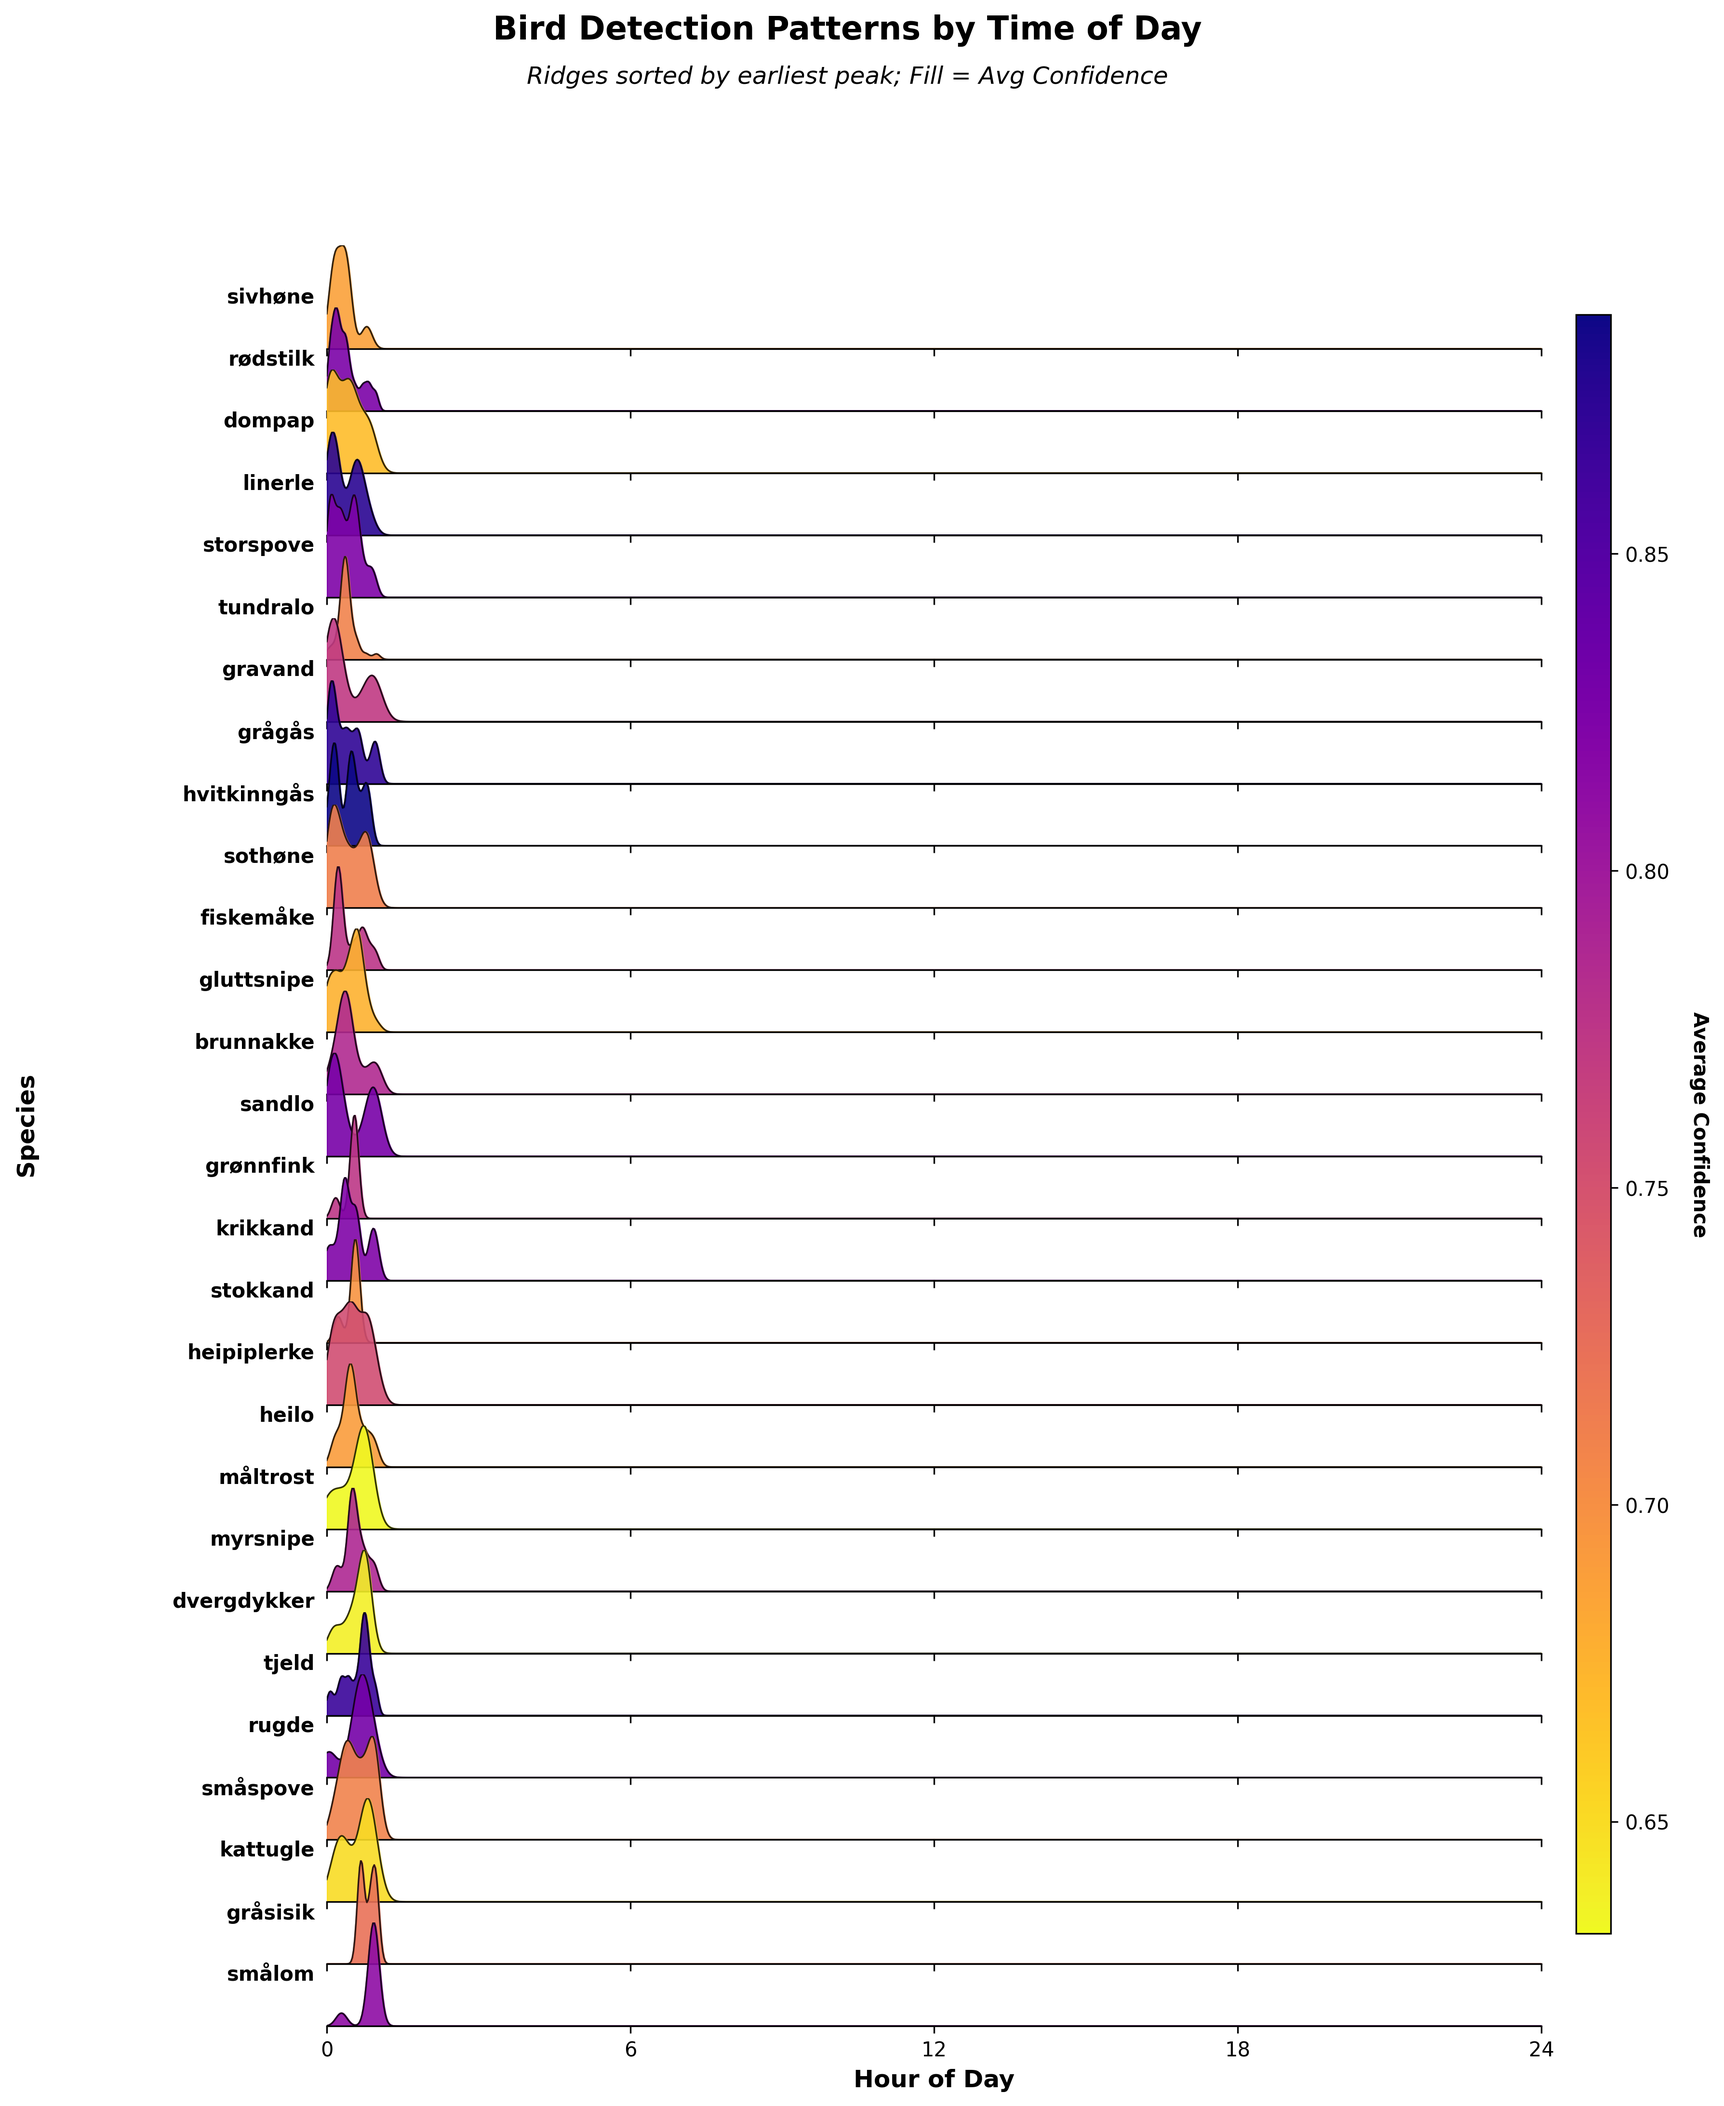
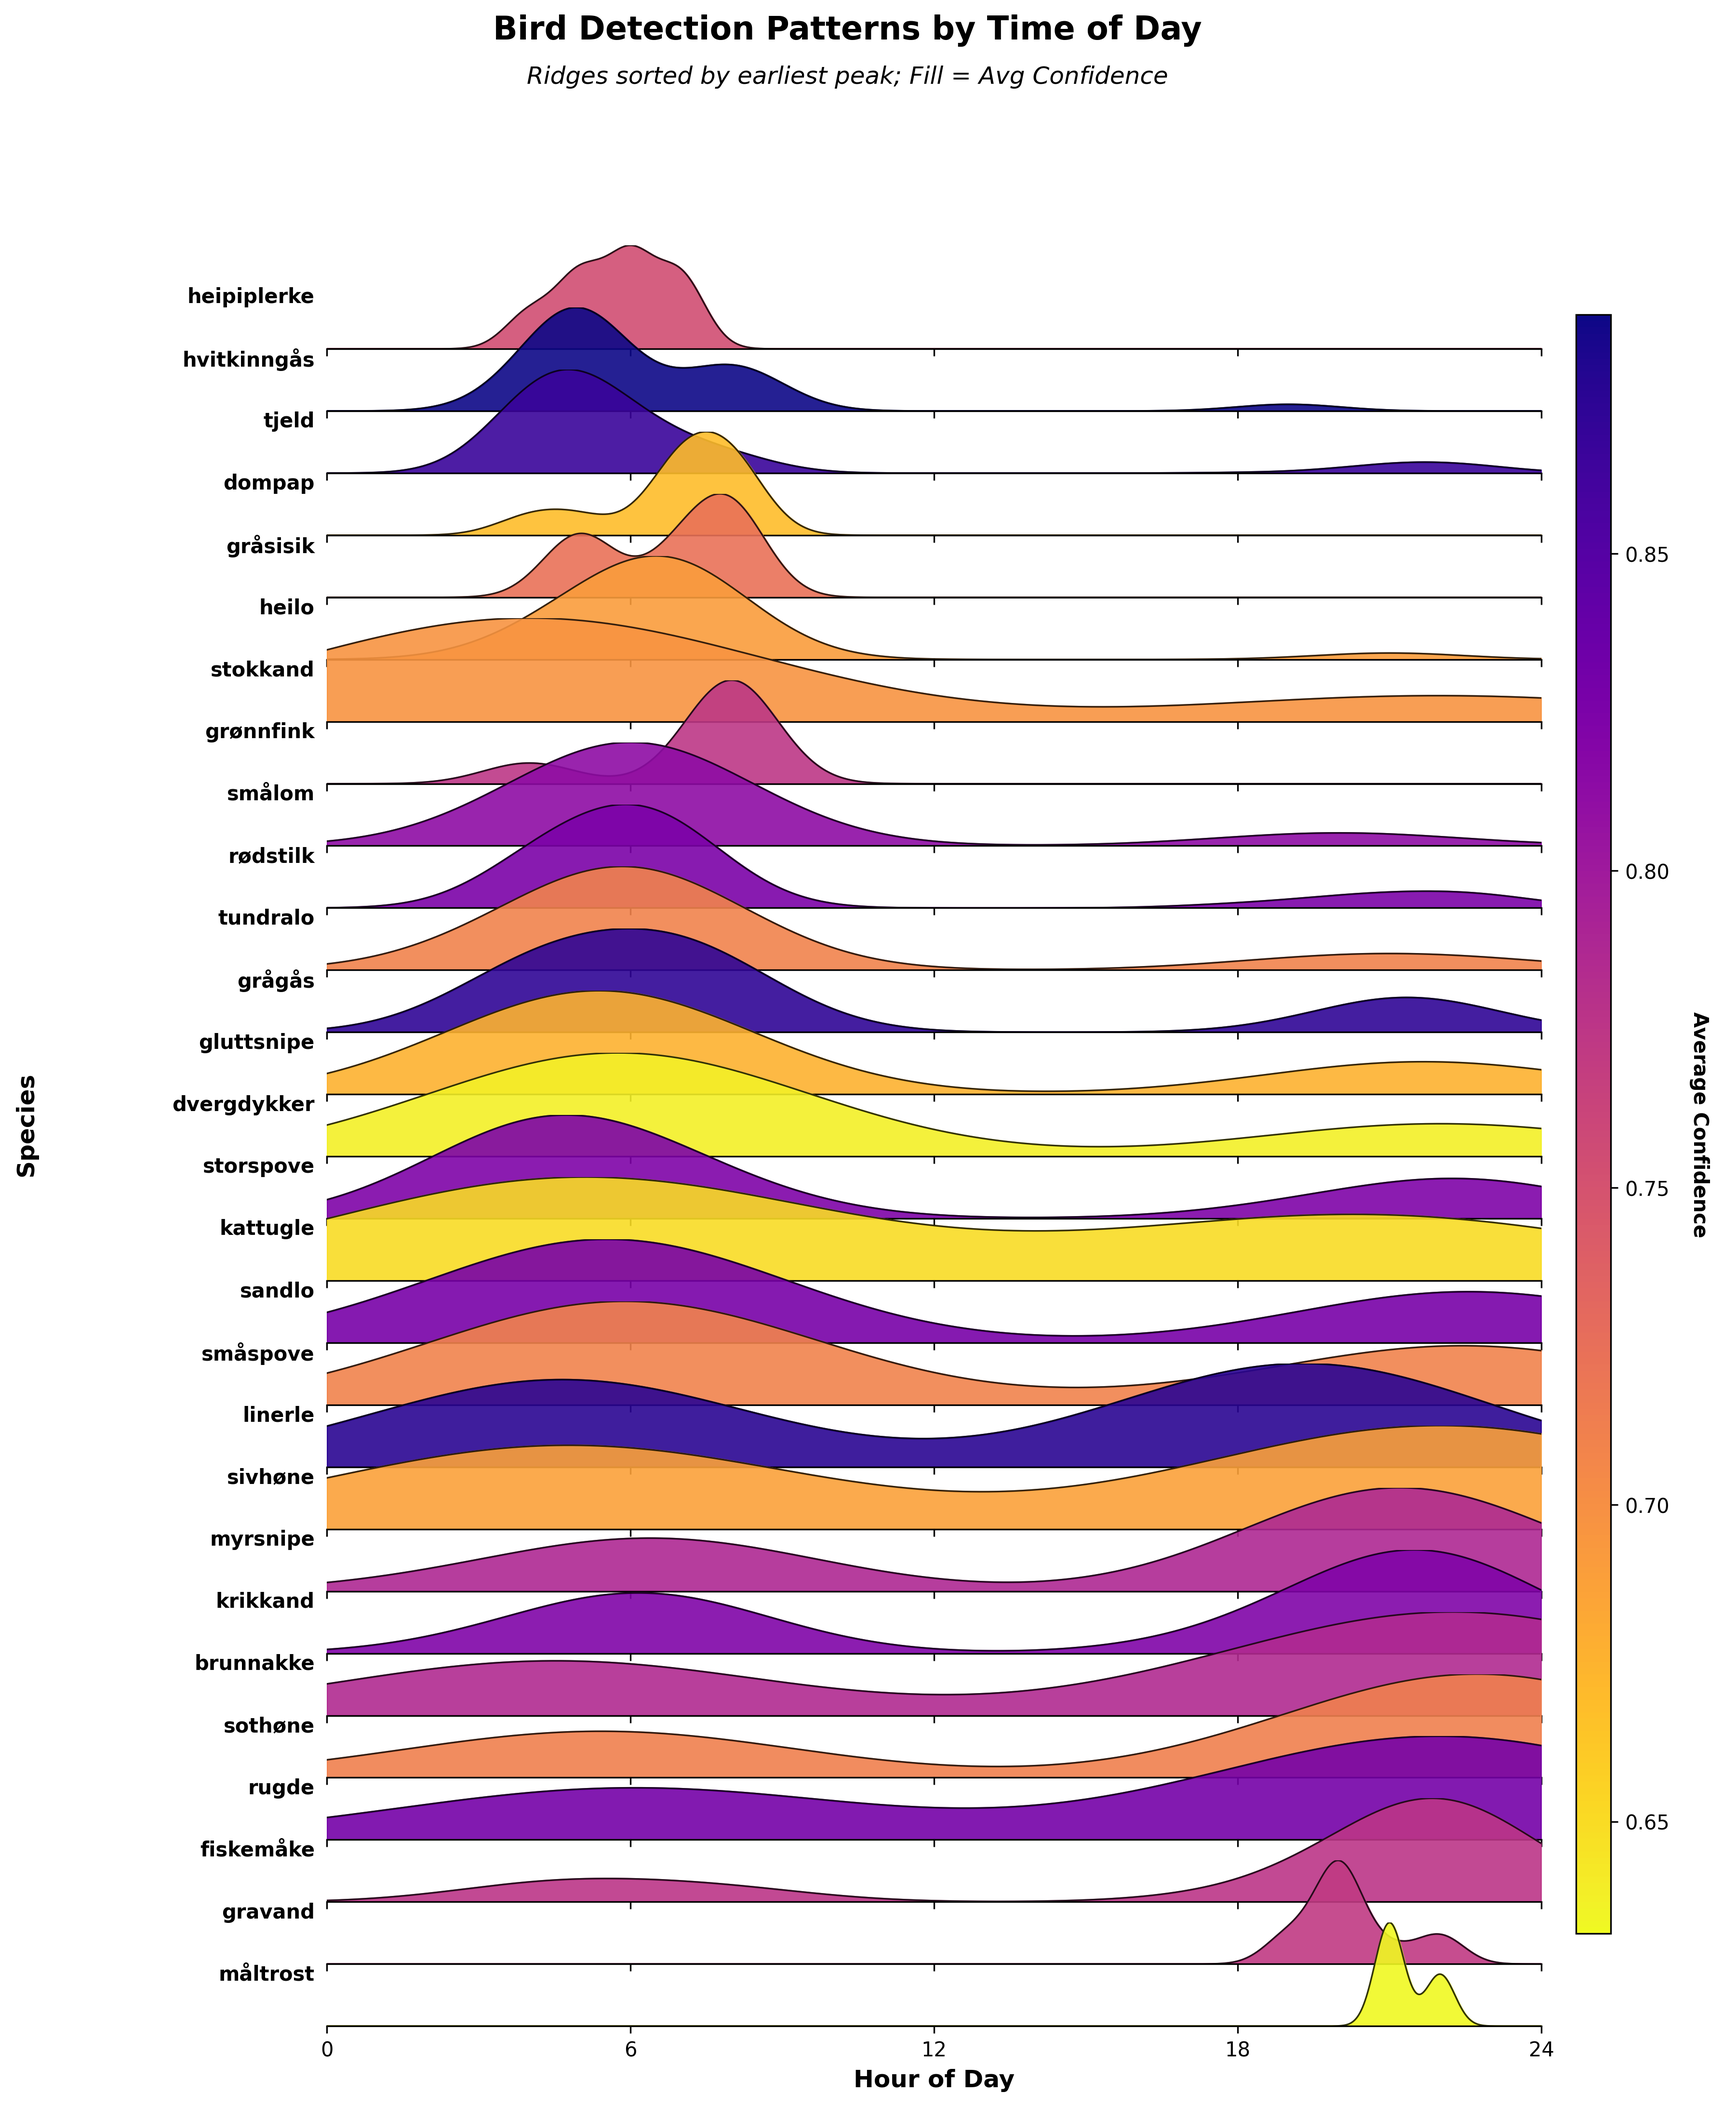
jpy division funker

Changed region(s): [[0.1241, 0.0933, 0.8999, 0.9645], [0.7758, 0.2178, 0.8689, 0.2489]]

diff --git a/joy_division_plot.py b/joy_division_plot.py
@@ -26,6 +26,7 @@ import argparse
 import logging
 from typing import Tuple, List, Dict, Optional
 import warnings
+from functions.temporal_analysis import add_real_timestamps
 
 # Configure logging
 logging.basicConfig(level=logging.INFO, format="%(asctime)s - %(levelname)s - %(message)s")
@@ -70,15 +71,19 @@ def load_detection_data(csv_path: Path) -> pd.DataFrame:
         if missing_cols:
             raise ValueError(f"Missing required columns: {missing_cols}")
 
-        # Handle time extraction
-        if "hour_of_day" not in df.columns:
+        # Use add_real_timestamps to get hour_of_day from filenames
+        logger.info("Attempting to derive real timestamps from filenames...")
+        df = add_real_timestamps(df)
+
+        if "hour_of_day" not in df.columns or df["hour_of_day"].isnull().all():
+            logger.warning("Failed to derive 'hour_of_day' from filenames via add_real_timestamps.")
+            # Fallback if add_real_timestamps doesn't populate hour_of_day, though it should.
             if "start_time" in df.columns:
-                # Convert start_time (seconds) to hour_of_day
+                logger.info("Falling back to calculating hour_of_day from 'start_time' as offset from midnight.")
                 df["hour_of_day"] = (df["start_time"] / 3600) % 24
-                logger.info("Converted start_time to hour_of_day")
             else:
-                logger.warning("No hour_of_day or start_time column found. Cannot create temporal plot.")
-                return pd.DataFrame()
+                logger.error("Cannot determine hour_of_day. 'start_time' column also missing.")
+                return pd.DataFrame()  # Return empty if no time data
 
         # Validate data ranges
         df = df.dropna(subset=["hour_of_day", "confidence", "Species_NorwegianName"])
